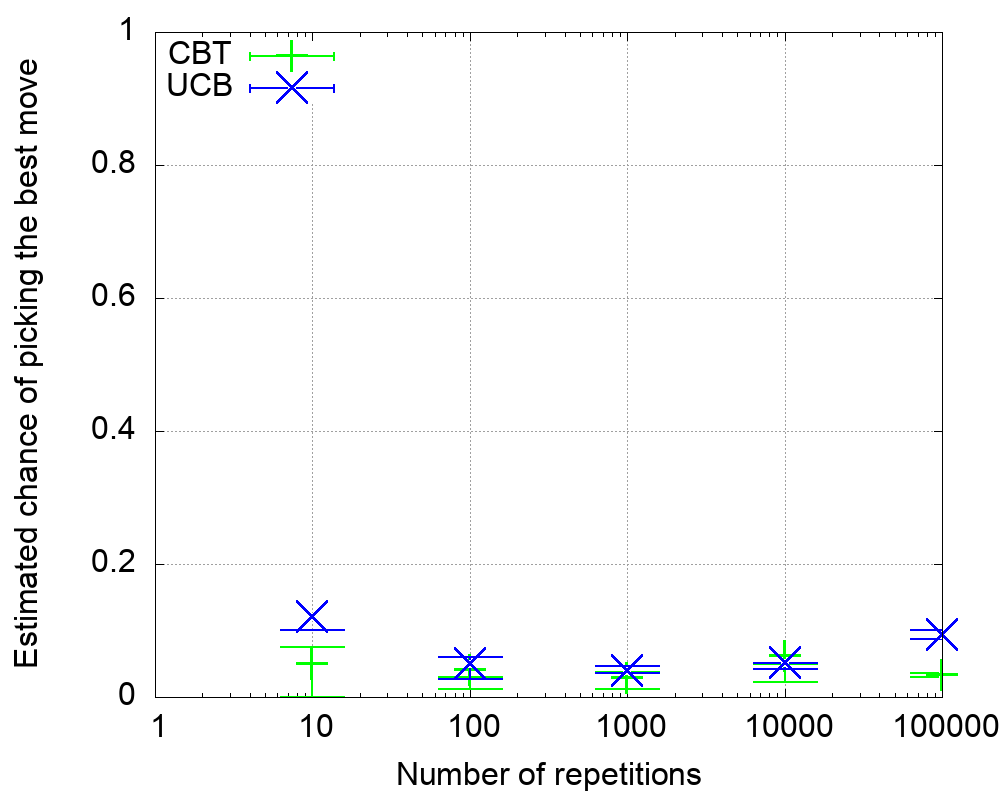
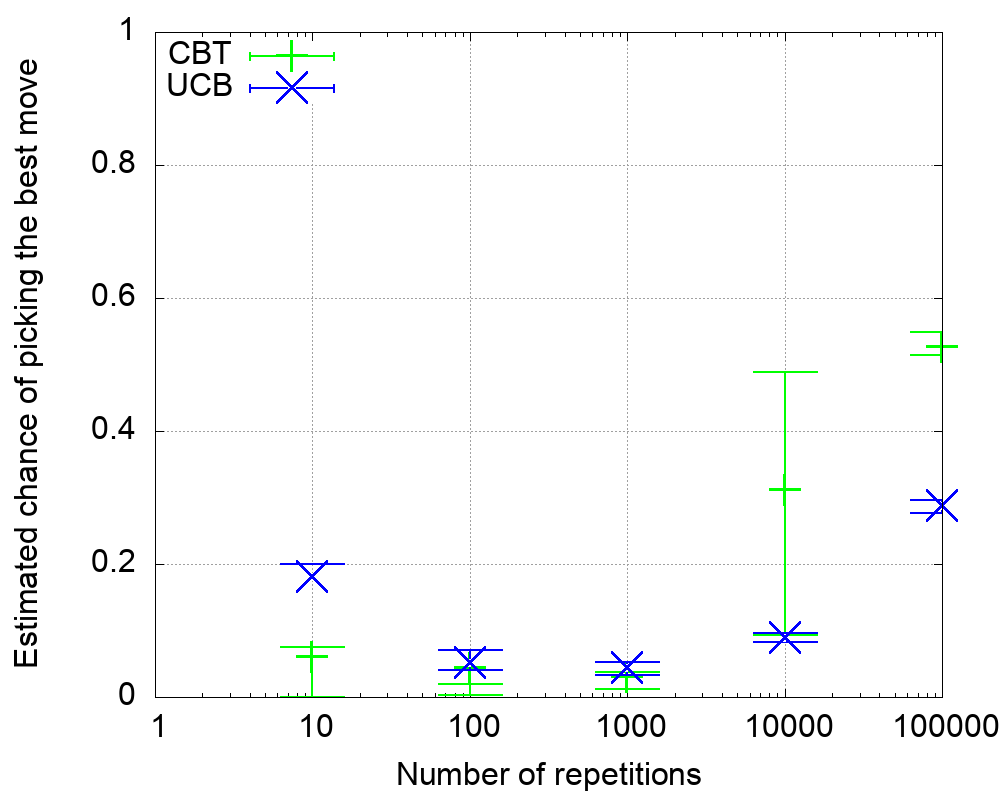
Fix problem, where best move and minmax value of game min game with K=30 were wrong.

diff --git a/cbt/algorithms/minimal_UCB.py b/cbt/algorithms/minimal_UCB.py
@@ -141,6 +141,7 @@ class UCBMinimal:
     gamma: float
     game: Game
     wins: int
+    root: CBTNode
 
     def __init__(self, game: Game,
                  data_flag: bool = False,
@@ -157,14 +158,14 @@ class UCBMinimal:
         """
         Run the CBT algorithm for a specified number of iterations and return the best move.
         """
-        root = CBTNode()
-        self.bandit.initialize_node(root, self.game)
+        self.root = CBTNode()
+        self.bandit.initialize_node(self.root, self.game)
 
         # Create all children of the root node.
-        self.expand_root(root)
+        self.expand_root(self.root)
 
         for i in range(iters):
-            v = self.select(root)
+            v = self.select(self.root)
 
             res = self.simulate()
 
@@ -181,8 +182,8 @@ class UCBMinimal:
         # TODO: Think about what to return
 
         if self.print_flag:
-            root.print_tree()
-        return {child.prev_move: child.n for child in root.children}
+            self.root.print_tree()
+        return {child.prev_move: child.n for child in self.root.children}
 
     def select(self, v: CBTNode) -> CBTNode:
         """
@@ -273,6 +274,21 @@ class UCBMinimal:
         """
         return sqrt(t) # TODO: This, but correct.
 
+    def best_move(self, method: str = "max_n") -> int:
+        """
+        Return the best move based on the specified method.
+        """
+        def regret(child: CBTNode) -> float:
+            return child.r / child.n if child.n != 0 else 0
+
+        if method == "max_n":
+            return max(self.root.children, key=lambda child: child.n).prev_move
+
+        if method == "min_loss":
+            return max(self.root.children, key=regret).prev_move
+
+        raise ValueError("Invalid method. Use 'max_n'.")
+
 class UCBPlayer(Player):
     alg: UCBMinimal
     move_history: dict[int, int]
@@ -302,7 +318,4 @@ class UCBPlayer(Player):
         """
         Return the best move based on the specified method.
         """
-        if method == "max_n":
-            return max(self.move_history, key=lambda key: self.move_history[key])
-
-        raise ValueError("Invalid method. Use 'max_n'.")
+        return self.alg.best_move(method)

diff --git a/bin/experiments/settings.py b/bin/experiments/settings.py
@@ -189,4 +189,4 @@ means_30_30 = np.array([
     0.16, 0.92, 0.13, 0.13, 0.66, 0.96]
 ])
 
-best_move_30_30 = 5
+best_move_30_30 = 13
